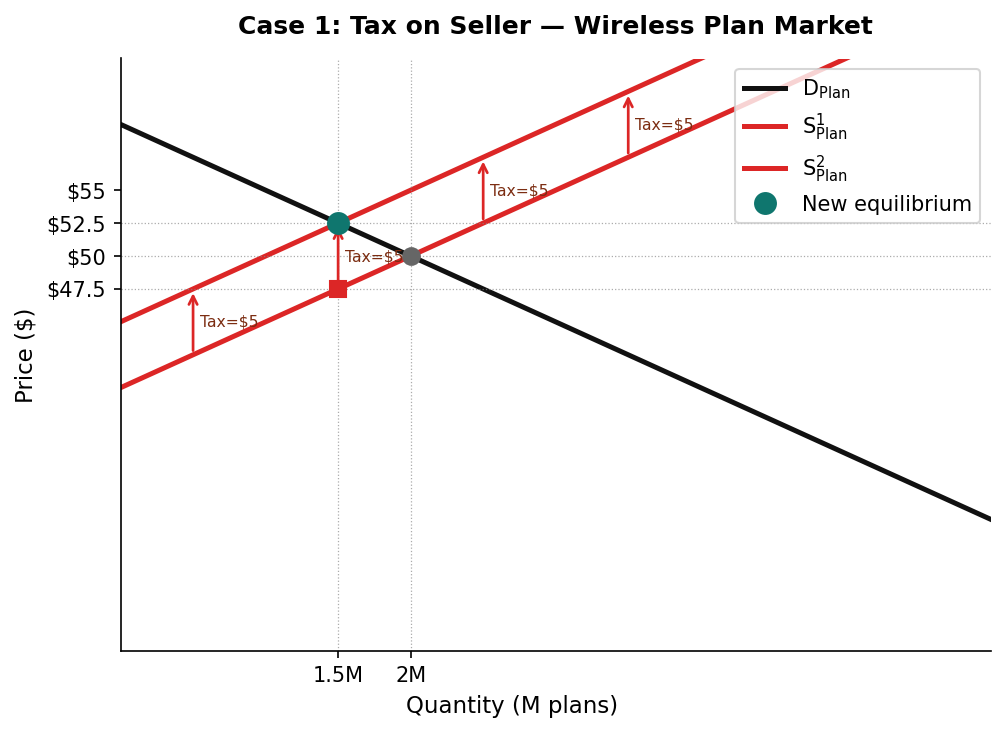
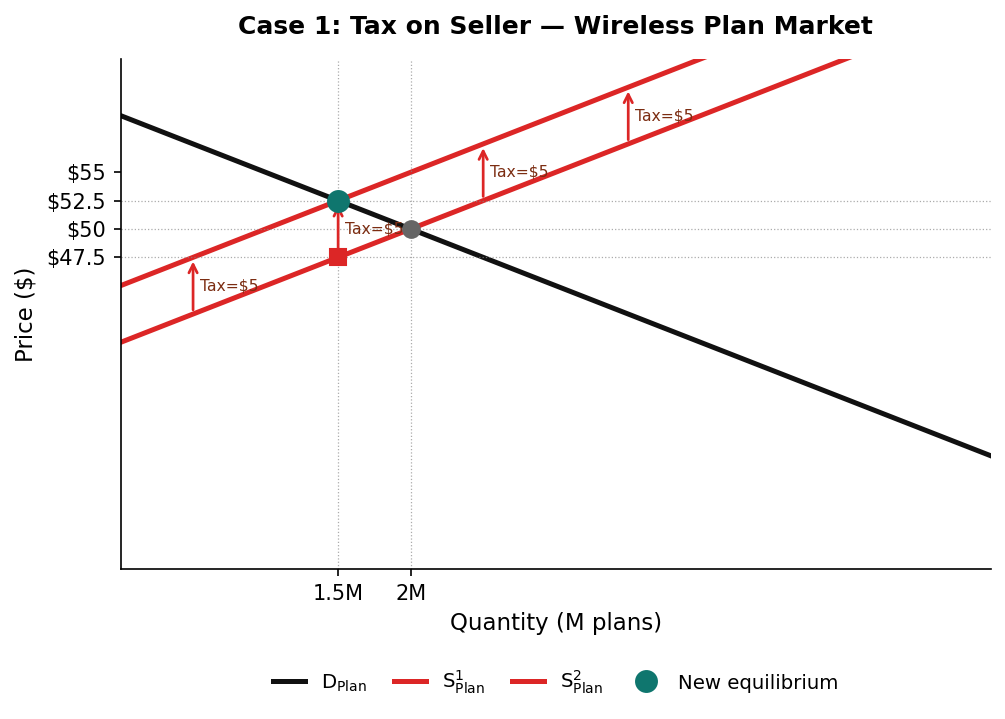
ch07: page 32 fits + horizontal legends + new welfare-comparison slide (61 slides)
Four fixes in one commit:

1) Page 32 (How a Tax Works): the bottom SVG was clipping below the
   slide canvas. Add max-height: 250px to both stacked SVGs so the
   total stacked height stays inside the 720-px reveal canvas while
   keeping the aspect ratio honest.

2) figure_011 (Case 1 tax on seller): move the legend from upper-right
   INSIDE the plot to a horizontal row UNDER the x-axis label
   (bbox_to_anchor=(0.5,-0.16), ncol=4, frameon=False). The legend no
   longer obscures the curves or the wedge arrows.

3) figure_012 (Case 2 tax on buyer): same legend treatment, mirroring
   page 34.

4) New page 36 'Welfare Before vs. After (A-F regions)' between Case 2
   and the formal equivalence-principle slide. Perloff-style six-region
   shading on the wireless plan diagram:
     A = CS that stays           ($5.625M)
     B = CS portion to gov rev   ($3.75M)
     C = lost CS (DWL_1)         ($0.625M)
     D = PS portion to gov rev   ($3.75M)
     E = lost PS (DWL_2)         ($0.625M)
     F = PS that stays           ($5.625M)
   Right column has a four-row table (CS, PS, Gov rev, Welfare) with
   No-Tax / $5-Tax / Change columns, each cell showing both the
   region-letter formula and the dollar value:
     CS  10.0M -> 5.625M  (Delta -B-C = -4.375M)
     PS  10.0M -> 5.625M  (Delta -D-E = -4.375M)
     Gov 0     -> 7.5M    (+B+D = +7.5M)
     W   20M   -> 18.75M  (Delta -C-E = -1.25M = DWL)
   Below the table: a 'Region values' card listing A-F dollar amounts.
[…]

diff --git a/econ1116/ch07-government-intervention/index.html b/econ1116/ch07-government-intervention/index.html
@@ -1035,7 +1035,7 @@
   <div style="display: flex; flex-direction: column; gap: 6px;">
 
    <!-- TOP SVG: tax on seller — supply shifts up by t -->
-   <svg viewBox="0 0 360 210" style="width: 100%;" xmlns="http://www.w3.org/2000/svg">
+   <svg viewBox="0 0 360 210" style="width: 100%; max-height: 250px;" xmlns="http://www.w3.org/2000/svg">
     <text x="200" y="14" font-size="11" font-weight="700" text-anchor="middle" fill="#1f2937">Tax on SELLER &mdash; supply shifts up by t</text>
     <!-- Axes -->
     <line x1="60" y1="25" x2="60" y2="185" stroke="#222" stroke-width="1.4"/>
@@ -1089,7 +1089,7 @@
    </svg>
 
    <!-- BOTTOM SVG: tax on buyer — demand shifts down by t -->
-   <svg viewBox="0 0 360 210" style="width: 100%;" xmlns="http://www.w3.org/2000/svg">
+   <svg viewBox="0 0 360 210" style="width: 100%; max-height: 250px;" xmlns="http://www.w3.org/2000/svg">
     <text x="200" y="14" font-size="11" font-weight="700" text-anchor="middle" fill="#1f2937">Tax on BUYER &mdash; demand shifts down by t (same result)</text>
     <!-- Axes -->
     <line x1="60" y1="25" x2="60" y2="185" stroke="#222" stroke-width="1.4"/>
@@ -1252,6 +1252,70 @@
  </div>
  <aside class="notes">
   Same market, different statutory side. Demand shifts DOWN by $5 to D^2: P = 55 - 5Q. New eq with original supply: 55-5Q = 40+5Q → Q=1.5M, P_s = $47.50. Buyers pay sellers $47.50 PLUS $5 to government = $52.50. SAME answer as Case 1. This is the equivalence principle — the statutory side (who legally pays) is irrelevant; economic incidence is determined by elasticities, which the formal slide formalizes next.
+ </aside>
+</section>
+
+<!-- Welfare comparison: CS, PS, Gov, DWL before vs after the $5 tax (A-F regions) -->
+<section id="tax-welfare-comparison">
+ <h2><i class="fa-solid fa-scale-balanced" style="color: var(--accent-color);"></i> $5 Tax &mdash; Welfare Before vs. After (A&ndash;F regions)</h2>
+ <div style="display: grid; grid-template-columns: 1.1fr 0.9fr; gap: 18px; margin-top: 8px; align-items: start;">
+  <!-- Left: diagram -->
+  <div>
+   <img src="figures/figure_014_tax_welfare_comparison.png" alt="Welfare comparison with A-F regions" style="width: 100%; max-height: 420px; object-fit: contain;">
+  </div>
+  <!-- Right: welfare table + change column -->
+  <div style="display: flex; flex-direction: column; gap: 10px;">
+   <table style="width: 100%; font-size: 12pt; border-collapse: collapse;">
+    <thead>
+     <tr style="background: #f8f6f3;">
+      <th style="text-align: left; padding: 8px 6px; border-bottom: 2px solid var(--secondary-color);"></th>
+      <th style="text-align: center; padding: 8px 6px; border-bottom: 2px solid var(--secondary-color);">No Tax</th>
+      <th style="text-align: center; padding: 8px 6px; border-bottom: 2px solid var(--secondary-color);">$5 Tax</th>
+      <th style="text-align: center; padding: 8px 6px; border-bottom: 2px solid var(--secondary-color);">Change</th>
+     </tr>
+    </thead>
+    <tbody>
+     <tr style="border-bottom: 1px solid #eee;">
+      <td style="padding: 7px 6px;"><strong>CS</strong></td>
+      <td style="text-align: center; padding: 7px 6px;">A + B + C<br><span style="color: var(--muted-color);">$10.0M</span></td>
+      <td style="text-align: center; padding: 7px 6px;">A<br><span style="color: var(--muted-color);">$5.625M</span></td>
+      <td style="text-align: center; padding: 7px 6px; color: var(--danger-color); font-weight: 700;">&minus;B&minus;C<br>&minus;$4.375M</td>
+     </tr>
+     <tr style="border-bottom: 1px solid #eee;">
+      <td style="padding: 7px 6px;"><strong>PS</strong></td>
+      <td style="text-align: center; padding: 7px 6px;">D + E + F<br><span style="color: var(--muted-color);">$10.0M</span></td>
+      <td style="text-align: center; padding: 7px 6px;">F<br><span style="color: var(--muted-color);">$5.625M</span></td>
+      <td style="text-align: center; padding: 7px 6px; color: var(--danger-color); font-weight: 700;">&minus;D&minus;E<br>&minus;$4.375M</td>
+     </tr>
+     <tr style="border-bottom: 1px solid #eee;">
+      <td style="padding: 7px 6px;"><strong>Gov rev</strong></td>
+      <td style="text-align: center; padding: 7px 6px;">0</td>
+      <td style="text-align: center; padding: 7px 6px;">B + D<br><span style="color: var(--muted-color);">$7.5M</span></td>
+      <td style="text-align: center; padding: 7px 6px; color: var(--success-color); font-weight: 700;">+B+D<br>+$7.5M</td>
+     </tr>
+     <tr style="background: #fff7ed; border-bottom: 1px solid #eee;">
+      <td style="padding: 8px 6px;"><strong>Welfare</strong></td>
+      <td style="text-align: center; padding: 8px 6px;">A&hellip;F<br><strong>$20.0M</strong></td>
+      <td style="text-align: center; padding: 8px 6px;">A+B+D+F<br><strong>$18.75M</strong></td>
+      <td style="text-align: center; padding: 8px 6px; color: var(--danger-color); font-weight: 700;">&minus;C&minus;E<br>&minus;$1.25M</td>
+     </tr>
+     <tr style="background: #ffebee;">
+      <td style="padding: 8px 6px;"><strong>DWL</strong></td>
+      <td colspan="3" style="text-align: center; padding: 8px 6px; color: var(--danger-color); font-weight: 700; font-size: 13pt;">C + E &nbsp;=&nbsp; $1.25M / period</td>
+     </tr>
+    </tbody>
+   </table>
+   <div style="background: #f8f6f3; border-radius: 8px; padding: 10px 14px; border-left: 4px solid var(--accent-color);">
+    <p style="font-size: 11pt; font-weight: 700; color: var(--accent-color); text-transform: uppercase; letter-spacing: 0.05em; margin: 0 0 4px 0;">Region values ($M / period)</p>
+    <ul style="font-size: 11.5pt; line-height: 1.45; margin: 0; padding-left: 18px;">
+     <li><strong>A</strong> = $5.625 &middot; <strong>B</strong> = $3.75 &middot; <strong>C</strong> = $0.625</li>
+     <li><strong>D</strong> = $3.75 &middot; <strong>E</strong> = $0.625 &middot; <strong>F</strong> = $5.625</li>
+    </ul>
+   </div>
+  </div>
+ </div>
+ <aside class="notes">
+  Tie the worked example together with the welfare table. Six regions: A = CS that stays (top triangle above P_b), B = CS portion that becomes government revenue (rectangle from P* to P_b), C = lost CS triangle = DWL₁, D = PS portion that becomes gov revenue (rectangle from P_s to P*), E = lost PS triangle = DWL₂, F = PS that stays (bottom triangle above supply, below P_s). The transfers B and D move from CS and PS into government revenue — they're not destroyed. Only C and E disappear: the surplus from trades that no longer happen because the wedge raised the buyer's price and lowered the seller's price below their reservation values. Numerical check: \$10 + \$10 = \$20M total before; after = \$5.625 + \$5.625 + \$7.5 = \$18.75M; difference = \$1.25M = DWL = C + E. Next: the formal equivalence principle slide.
  </aside>
 </section>
 

diff --git a/econ1116/ch07-government-intervention/presentation.html b/econ1116/ch07-government-intervention/presentation.html
@@ -1035,7 +1035,7 @@
   <div style="display: flex; flex-direction: column; gap: 6px;">
 
    <!-- TOP SVG: tax on seller — supply shifts up by t -->
-   <svg viewBox="0 0 360 210" style="width: 100%;" xmlns="http://www.w3.org/2000/svg">
+   <svg viewBox="0 0 360 210" style="width: 100%; max-height: 250px;" xmlns="http://www.w3.org/2000/svg">
     <text x="200" y="14" font-size="11" font-weight="700" text-anchor="middle" fill="#1f2937">Tax on SELLER &mdash; supply shifts up by t</text>
     <!-- Axes -->
     <line x1="60" y1="25" x2="60" y2="185" stroke="#222" stroke-width="1.4"/>
@@ -1089,7 +1089,7 @@
    </svg>
 
    <!-- BOTTOM SVG: tax on buyer — demand shifts down by t -->
-   <svg viewBox="0 0 360 210" style="width: 100%;" xmlns="http://www.w3.org/2000/svg">
+   <svg viewBox="0 0 360 210" style="width: 100%; max-height: 250px;" xmlns="http://www.w3.org/2000/svg">
     <text x="200" y="14" font-size="11" font-weight="700" text-anchor="middle" fill="#1f2937">Tax on BUYER &mdash; demand shifts down by t (same result)</text>
     <!-- Axes -->
     <line x1="60" y1="25" x2="60" y2="185" stroke="#222" stroke-width="1.4"/>
@@ -1252,6 +1252,70 @@
  </div>
  <aside class="notes">
   Same market, different statutory side. Demand shifts DOWN by $5 to D^2: P = 55 - 5Q. New eq with original supply: 55-5Q = 40+5Q → Q=1.5M, P_s = $47.50. Buyers pay sellers $47.50 PLUS $5 to government = $52.50. SAME answer as Case 1. This is the equivalence principle — the statutory side (who legally pays) is irrelevant; economic incidence is determined by elasticities, which the formal slide formalizes next.
+ </aside>
+</section>
+
+<!-- Welfare comparison: CS, PS, Gov, DWL before vs after the $5 tax (A-F regions) -->
+<section id="tax-welfare-comparison">
+ <h2><i class="fa-solid fa-scale-balanced" style="color: var(--accent-color);"></i> $5 Tax &mdash; Welfare Before vs. After (A&ndash;F regions)</h2>
+ <div style="display: grid; grid-template-columns: 1.1fr 0.9fr; gap: 18px; margin-top: 8px; align-items: start;">
+  <!-- Left: diagram -->
+  <div>
+   <img src="figures/figure_014_tax_welfare_comparison.png" alt="Welfare comparison with A-F regions" style="width: 100%; max-height: 420px; object-fit: contain;">
+  </div>
+  <!-- Right: welfare table + change column -->
+  <div style="display: flex; flex-direction: column; gap: 10px;">
+   <table style="width: 100%; font-size: 12pt; border-collapse: collapse;">
+    <thead>
+     <tr style="background: #f8f6f3;">
+      <th style="text-align: left; padding: 8px 6px; border-bottom: 2px solid var(--secondary-color);"></th>
+      <th style="text-align: center; padding: 8px 6px; border-bottom: 2px solid var(--secondary-color);">No Tax</th>
+      <th style="text-align: center; padding: 8px 6px; border-bottom: 2px solid var(--secondary-color);">$5 Tax</th>
+      <th style="text-align: center; padding: 8px 6px; border-bottom: 2px solid var(--secondary-color);">Change</th>
+     </tr>
+    </thead>
+    <tbody>
+     <tr style="border-bottom: 1px solid #eee;">
+      <td style="padding: 7px 6px;"><strong>CS</strong></td>
+      <td style="text-align: center; padding: 7px 6px;">A + B + C<br><span style="color: var(--muted-color);">$10.0M</span></td>
+      <td style="text-align: center; padding: 7px 6px;">A<br><span style="color: var(--muted-color);">$5.625M</span></td>
+      <td style="text-align: center; padding: 7px 6px; color: var(--danger-color); font-weight: 700;">&minus;B&minus;C<br>&minus;$4.375M</td>
+     </tr>
+     <tr style="border-bottom: 1px solid #eee;">
+      <td style="padding: 7px 6px;"><strong>PS</strong></td>
+      <td style="text-align: center; padding: 7px 6px;">D + E + F<br><span style="color: var(--muted-color);">$10.0M</span></td>
+      <td style="text-align: center; padding: 7px 6px;">F<br><span style="color: var(--muted-color);">$5.625M</span></td>
+      <td style="text-align: center; padding: 7px 6px; color: var(--danger-color); font-weight: 700;">&minus;D&minus;E<br>&minus;$4.375M</td>
+     </tr>
+     <tr style="border-bottom: 1px solid #eee;">
+      <td style="padding: 7px 6px;"><strong>Gov rev</strong></td>
+      <td style="text-align: center; padding: 7px 6px;">0</td>
+      <td style="text-align: center; padding: 7px 6px;">B + D<br><span style="color: var(--muted-color);">$7.5M</span></td>
+      <td style="text-align: center; padding: 7px 6px; color: var(--success-color); font-weight: 700;">+B+D<br>+$7.5M</td>
+     </tr>
+     <tr style="background: #fff7ed; border-bottom: 1px solid #eee;">
+      <td style="padding: 8px 6px;"><strong>Welfare</strong></td>
+      <td style="text-align: center; padding: 8px 6px;">A&hellip;F<br><strong>$20.0M</strong></td>
+      <td style="text-align: center; padding: 8px 6px;">A+B+D+F<br><strong>$18.75M</strong></td>
+      <td style="text-align: center; padding: 8px 6px; color: var(--danger-color); font-weight: 700;">&minus;C&minus;E<br>&minus;$1.25M</td>
+     </tr>
+     <tr style="background: #ffebee;">
+      <td style="padding: 8px 6px;"><strong>DWL</strong></td>
+      <td colspan="3" style="text-align: center; padding: 8px 6px; color: var(--danger-color); font-weight: 700; font-size: 13pt;">C + E &nbsp;=&nbsp; $1.25M / period</td>
+     </tr>
+    </tbody>
+   </table>
+   <div style="background: #f8f6f3; border-radius: 8px; padding: 10px 14px; border-left: 4px solid var(--accent-color);">
+    <p style="font-size: 11pt; font-weight: 700; color: var(--accent-color); text-transform: uppercase; letter-spacing: 0.05em; margin: 0 0 4px 0;">Region values ($M / period)</p>
+    <ul style="font-size: 11.5pt; line-height: 1.45; margin: 0; padding-left: 18px;">
+     <li><strong>A</strong> = $5.625 &middot; <strong>B</strong> = $3.75 &middot; <strong>C</strong> = $0.625</li>
+     <li><strong>D</strong> = $3.75 &middot; <strong>E</strong> = $0.625 &middot; <strong>F</strong> = $5.625</li>
+    </ul>
+   </div>
+  </div>
+ </div>
+ <aside class="notes">
+  Tie the worked example together with the welfare table. Six regions: A = CS that stays (top triangle above P_b), B = CS portion that becomes government revenue (rectangle from P* to P_b), C = lost CS triangle = DWL₁, D = PS portion that becomes gov revenue (rectangle from P_s to P*), E = lost PS triangle = DWL₂, F = PS that stays (bottom triangle above supply, below P_s). The transfers B and D move from CS and PS into government revenue — they're not destroyed. Only C and E disappear: the surplus from trades that no longer happen because the wedge raised the buyer's price and lowered the seller's price below their reservation values. Numerical check: \$10 + \$10 = \$20M total before; after = \$5.625 + \$5.625 + \$7.5 = \$18.75M; difference = \$1.25M = DWL = C + E. Next: the formal equivalence principle slide.
  </aside>
 </section>
 
